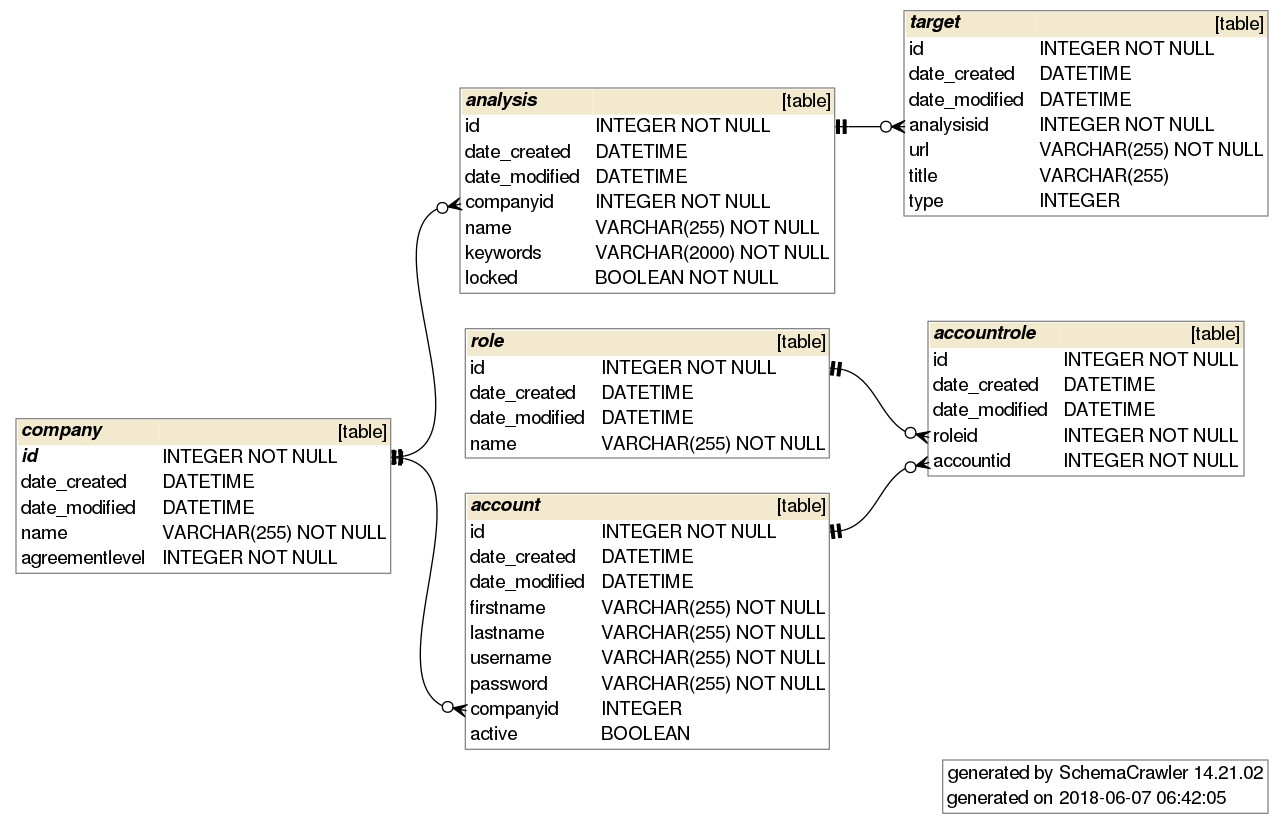
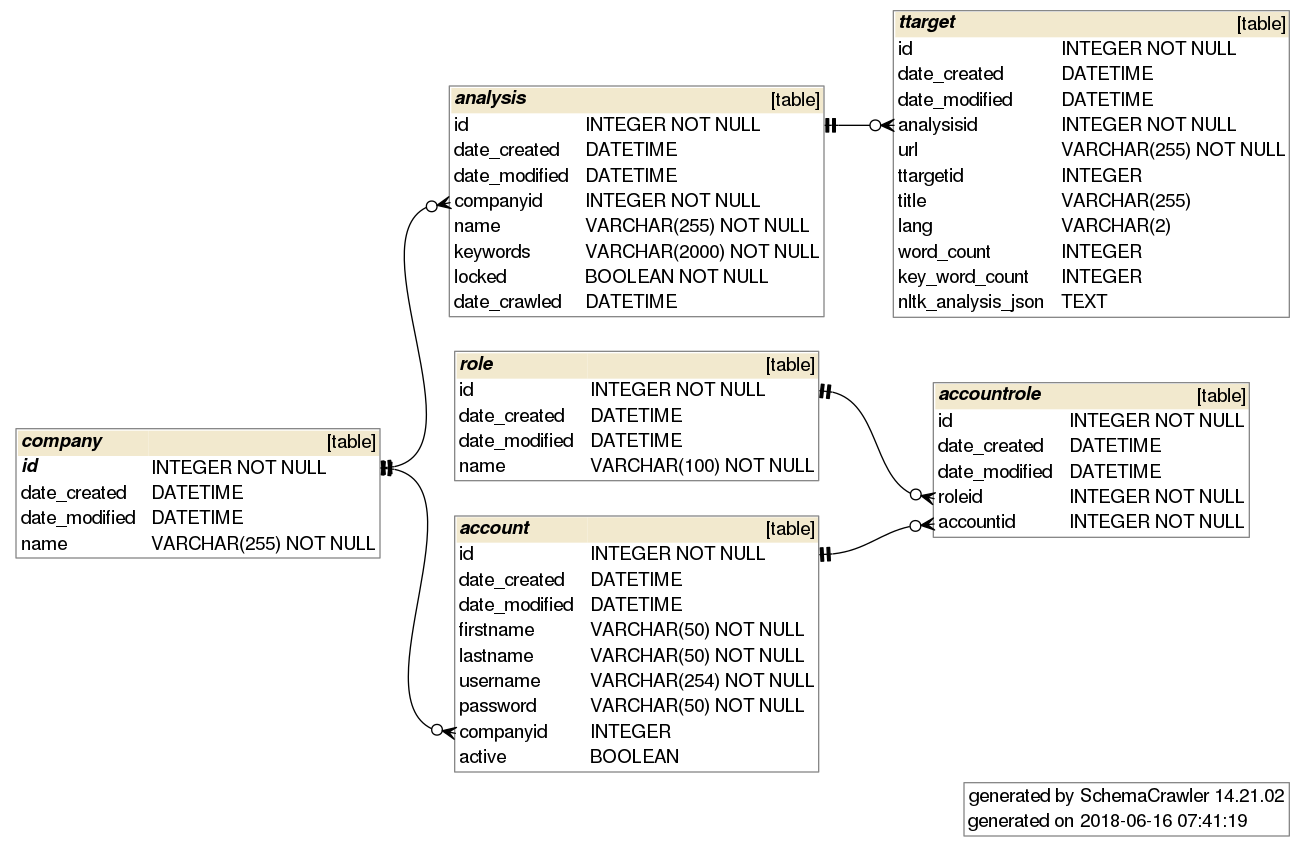
Refactored models (removed unneeded properties), updated db graph

diff --git a/application/templates/analysis/report.html b/application/templates/analysis/report.html
@@ -89,7 +89,7 @@
                 </div>
                 <div class="row">
                     <label class="col-sm-3">Kieli</label>
-                    <div class="col-sm-9">{{ ttarget.language }}</div>
+                    <div class="col-sm-9">{{ ttarget.lang }}</div>
                 </div>
                 <div class="row">
                     <label class="col-sm-3">Avainsanat</label>
@@ -133,7 +133,7 @@
                                 </div>
                                 <div class="row">
                                     <label class="col-sm-3">Kieli</label>
-                                    <div class="col-sm-9">{{ subtarget.language }}</div>
+                                    <div class="col-sm-9">{{ subtarget.lang }}</div>
                                 </div>
                                 <div class="row">
                                     <label class="col-sm-3">Avainsanaosumat</label>

diff --git a/application/__init__.py b/application/__init__.py
@@ -121,11 +121,9 @@ try:
     user = User.query.get(1)
     if user is None:
 
-        #comp1 = Company("Tsoha18", 1)  # agreementlevel: 1 = Pro, 2 = Basic
-        db.session.add(Company("Aukustin asianajotoimisto Ky",2)) # agreementlevel: 1 = Pro, 2 = Basic
-        db.session.add(Company("Idan ideahautomo",1))
+        db.session.add(Company("Aukustin asianajotoimisto Ky"))
+        db.session.add(Company("Idan ideahautomo"))
         db.session.commit()
-        stdout.write("Companies inserted")
 
         #def __init__(self, username, firstname, lastname, password, companyid, active):
         db.session.add(User('paivio@tsoha18','Päiviö','Pääkäyttäjä','salainen',None,True))
@@ -134,13 +132,11 @@ try:
         db.session.add(User('akuliina@asianajotoimisto', 'Akuliina', 'Asiakas', 'salainen', 1,True))
         db.session.add(User('ida@ideahautomo','Ida','Asiakas','salainen',2,True))
         db.session.commit()
-        stdout.write("Users inserted")
 
         db.session.add(Role('Administrator'))
         db.session.add(Role('Editor'))
         db.session.add(Role('Customer'))
         db.session.commit()
-        stdout.write("Roles inserted")
 
         db.session.add(UserRole(1, 1)) # Administrator-paivio
         db.session.add(UserRole(2, 1)) # Editor-paivio
@@ -149,7 +145,6 @@ try:
         db.session.add(UserRole(3, 4)) # Customer-akuliina
         db.session.add(UserRole(3, 5)) # Customer-ida
         db.session.commit()
-        stdout.write("Userroles inserted")
 
         import datetime
         #Analysis: def __init__(self, companyid, name, keywords, locked, date_crawled):
@@ -157,15 +152,12 @@ try:
         db.session.add(Analysis(2, 'Idan keskeneräinen analyysi', '', False, None))
         db.session.add(Analysis(1, 'Aukustin asianajotoimiston ilmastopoiminnat', 'revontulet,arktinen,meteorologi,itämeri',False,None))
         db.session.commit()
-        stdout.write("Analyses inserted")
 
         #Target: def __init__(self, analysisid, url):
         db.session.add(Ttarget(1, 'https://www.aka.fi/fi/tietysti/tiedeuutiset/tiedeuutisia-suomesta1/')) # Akatemia tiedeuutiset
         db.session.add(Ttarget(1, 'https://ilmastotieto.wordpress.com/ilmastouutiset/'))  # Akatemia tiedeuutiset
         db.session.add(Ttarget(3, 'http://ilmatieteenlaitos.fi/tiedeuutisten-arkisto'))
         db.session.commit()
-        stdout.write("Targets inserted")
-
 
 except (DBAPIError, SQLAlchemyError, IntegrityError) as ex2:
     stdout.write(ex2)

diff --git a/application/ttarget/models.py b/application/ttarget/models.py
@@ -22,8 +22,7 @@ class Ttarget(Base):
     # The following data is to be filled through NLTK and other analyses
     ttargetid = db.Column(db.Integer)#, db.ForeignKey('ttarget.id'))
     title = db.Column(db.String(255))
-    language = db.Column(db.String(2))
-    link_count = db.Column(db.Integer)
+    lang = db.Column(db.String(2))
     word_count = db.Column(db.Integer)
     key_word_count = db.Column(db.Integer)
     nltk_analysis_json = db.Column(db.Text) # json data
@@ -64,7 +63,7 @@ class Ttarget(Base):
             # Get NLTK analysis
             obj_nltk_analysis = NltkAnalysis(self.raw, keywords)
             self.title = obj_nltk_analysis.title
-            self.language = obj_nltk_analysis.lang
+            self.lang = obj_nltk_analysis.lang
             self.word_count = sum(obj_nltk_analysis.no_stop_words.values())
             self.key_word_count = sum(obj_nltk_analysis.key_words.values())
 

diff --git a/application/models.py b/application/models.py
@@ -19,11 +19,9 @@ class Company(Base):
     __tablename__ = "company"
 
     name = db.Column(db.String(255), nullable=False)
-    agreementlevel = db.Column(db.Integer, nullable=False, default=2)  # 1 = Pro, 2 = Basic
 
-    def __init__(self, name, agreementlevel):
+    def __init__(self, name):
         self.name = name
-        self.agreementlevel = agreementlevel
 
     def get_users(self):
         sql = text("select * from users where companyid = :compid") \
